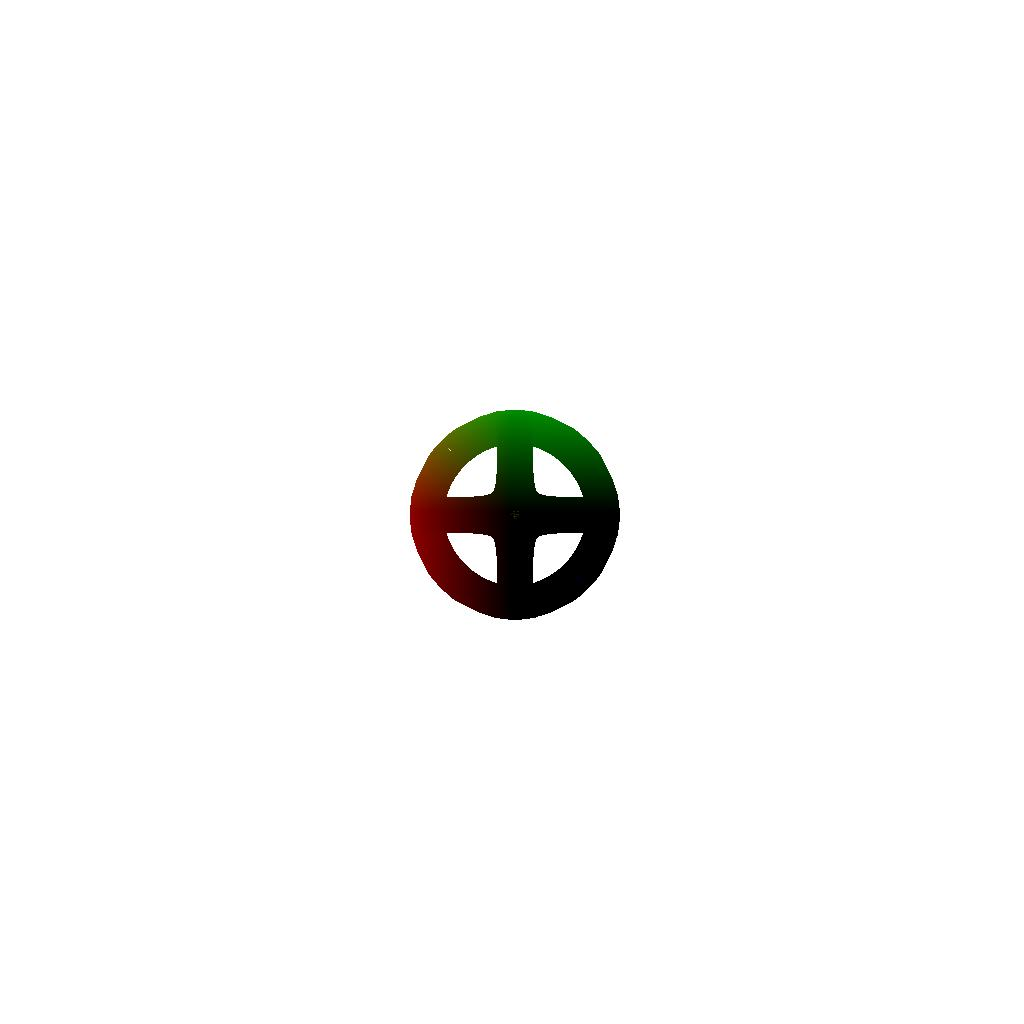
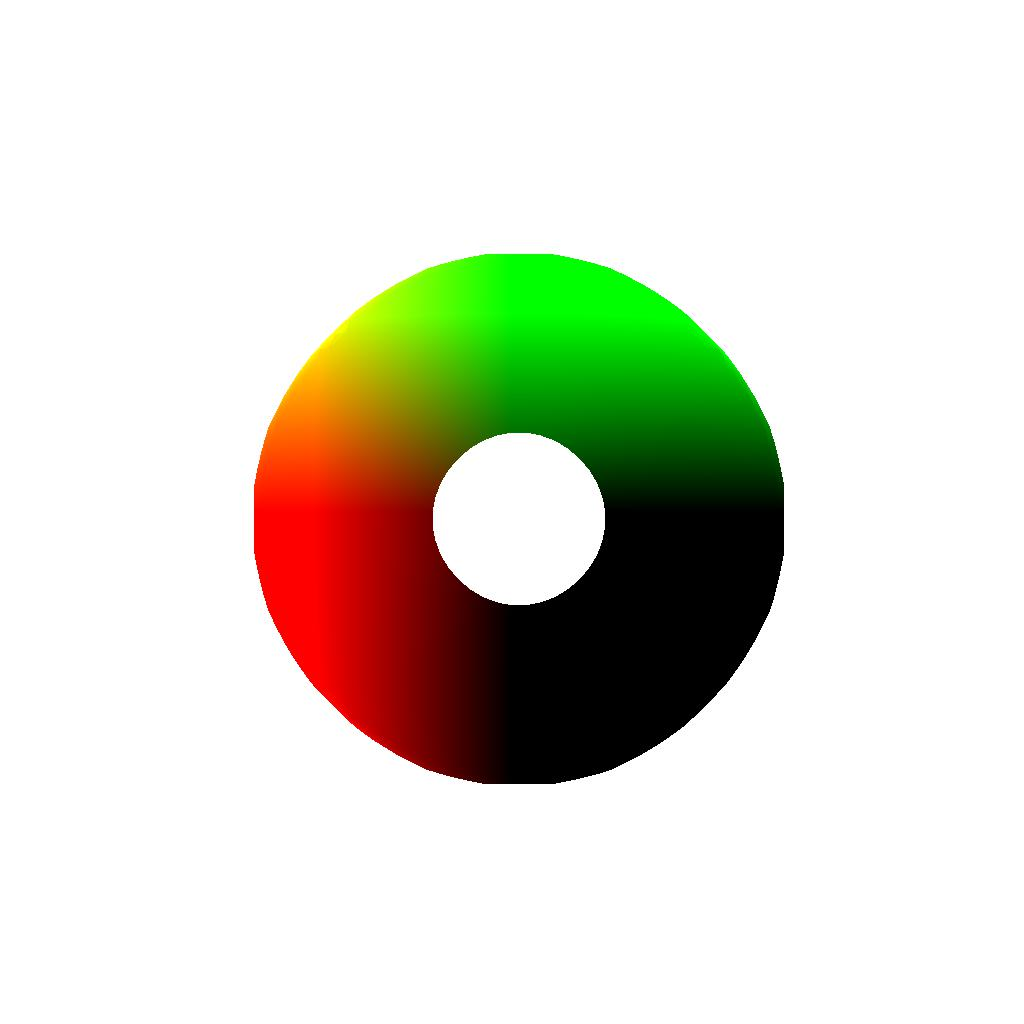
+

Changed region(s): [[0.25, 0.25, 0.7812, 0.7812]]

diff --git a/assignment1-master/solutions_lifany.py b/assignment1-master/solutions_lifany.py
@@ -317,7 +317,7 @@ def custom_pointcloud(image_size = 256,
     phi = torch.linspace(0, 4 * np.pi, num_samples)
     theta = torch.linspace(0, 4 * np.pi, num_samples)
     R, h = 3, 1
-    t = torch.linspace(0, 6 * np.pi, num_samples)
+    t = torch.linspace(-3 * np.pi, 3 * np.pi, num_samples)
 
     # Densely sample phi and theta on a grid
     phi, t = torch.meshgrid(phi, t)
@@ -345,7 +345,7 @@ def custom_pointcloud(image_size = 256,
         device = device,
         fps = fps,
         angle_step = angle_step,
-        dist = 15,
+        dist = 25,
         elev = 0
     )
 
@@ -365,14 +365,11 @@ def render_torus(
         ):
     if device is None:
         device = get_device()
-    min_value = -2
-    max_value = 2
+    min_value = -5
+    max_value = 5
     X, Y, Z = torch.meshgrid([torch.linspace(min_value, max_value, voxel_size)] * 3)
     # voxels = X ** 2 + Y ** 2 + Z ** 2 - 1
-    R = 1
-    a = 0.2
-    r = 0.01
-    voxels = ((X ** 2 + Y ** 2 + Z ** 2 + R ** 2 - a ** 2) ** 2 - 4 * R ** 2 * (Y ** 2 + Z ** 2)) * ((X ** 2 + Y ** 2 + Z ** 2 + R ** 2 - a ** 2) ** 2 - 4 * R ** 2 * (X ** 2 + Z ** 2)) * ((X ** 2 + Y ** 2 + Z ** 2 + R ** 2 - a ** 2) ** 2 - 4 * R ** 2 * (Y ** 2 + X ** 2)) - r
+    voxels = (b - np.sqrt(X ** 2 + Y ** 2)) ** 2 + Z ** 2 - a ** 2
     vertices, faces = mcubes.marching_cubes(mcubes.smooth(voxels), isovalue=0)
     vertices = torch.tensor(vertices).float()
     faces = torch.tensor(faces.astype(int))
@@ -394,8 +391,56 @@ def render_torus(
     plt.imsave("results/5_3.jpg", rend)
 
     render_360d(mesh=mesh, fname=fname, image_size=image_size, angle_step=angle_step, fps=fps, clip = True, dist = dist, elev = elev)
-    
 
+def render_tori(
+        image_size=256, 
+        voxel_size=64, 
+        device=None,
+        save_path = save_path,
+        fname = "q5_3_custom.gif",
+        fps = 15,
+        angle_step = 5,
+        a = 1,
+        b = 2,
+        dist = 10,
+        elev = 0
+        ):
+    if device is None:
+        device = get_device()
+    min_value = -4
+    max_value = 4
+    X, Y, Z = torch.meshgrid([torch.linspace(min_value, max_value, voxel_size)] * 3)
+    # voxels = X ** 2 + Y ** 2 + Z ** 2 - 1
+    R = 3
+    a = 0.5
+    r = 0.01
+    voxels = ((X ** 2 + Y ** 2 + Z ** 2 + R ** 2 - a ** 2) ** 2 - 4 * R ** 2 * (Y ** 2 + Z ** 2)) * ((X ** 2 + Y ** 2 + Z ** 2 + R ** 2 - a ** 2) ** 2 - 4 * R ** 2 * (X ** 2 + Z ** 2)) * ((X ** 2 + Y ** 2 + Z ** 2 + R ** 2 - a ** 2) ** 2 - 4 * R ** 2 * (Y ** 2 + X ** 2)) - r
+    vertices, faces = mcubes.marching_cubes(mcubes.smooth(voxels), isovalue=0)
+    vertices = torch.tensor(vertices).float()
+    faces = torch.tensor(faces.astype(int))
+    # Vertex coordinates are indexed by array position, so we need to
+    # renormalize the coordinate system.
+    vertices = (vertices / voxel_size) * (max_value - min_value) + min_value
+    textures = (vertices - vertices.min()) / (vertices.max() - vertices.min())
+    textures = pytorch3d.renderer.TexturesVertex(vertices.unsqueeze(0))
+
+    mesh = pytorch3d.structures.Meshes([vertices], [faces], textures=textures).to(
+        device
+    )
+    lights = pytorch3d.renderer.PointLights(location=[[0, 0.0, -4.0]], device=device,)
+    renderer = get_mesh_renderer(image_size=image_size, device=device)
+    R, T = pytorch3d.renderer.look_at_view_transform(dist=dist, elev=elev, azim=180)
+    cameras = pytorch3d.renderer.FoVPerspectiveCameras(R=R, T=T, device=device)
+    rend = renderer(mesh, cameras=cameras, lights=lights)
+    rend = rend[0, ..., :3].detach().cpu().numpy().clip(0, 1)
+    plt.imsave("results/5_3_custom.jpg", rend)
+
+    render_360d(mesh=mesh, fname=fname, image_size=image_size, angle_step=angle_step, fps=fps, clip = True, dist = dist, elev = elev)
+   
+### Q 6 Do Something Fun ###
+def fun():
+
+    return
 
 if __name__ == "__main__":
     # Q 1.1
@@ -472,10 +517,11 @@ if __name__ == "__main__":
 
     # Q 5.2
     # torus(image_size = 1024, num_samples=800)
-    # custom_pointcloud(image_size = 256, angle_step=5)
+    # custom_pointcloud(image_size = 1024, num_samples = 600, angle_step=5)
 
     # Q 5.3
     # render_torus(image_size = 1024)   
-    render_torus(image_size = 1024, fname = "5_3.custom.gif") 
+    # render_tori(image_size = 1024) 
 
-
+    # Q 6
+    fun()
